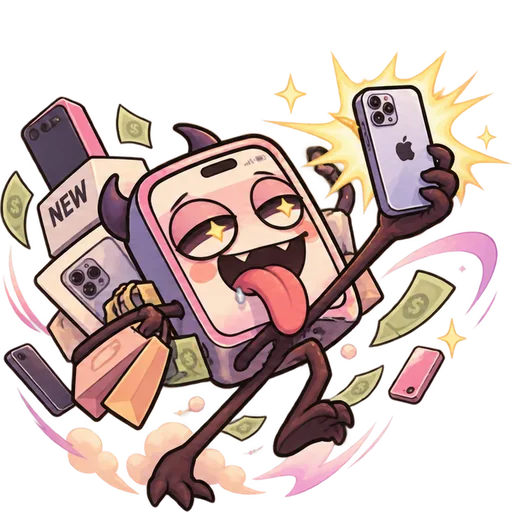
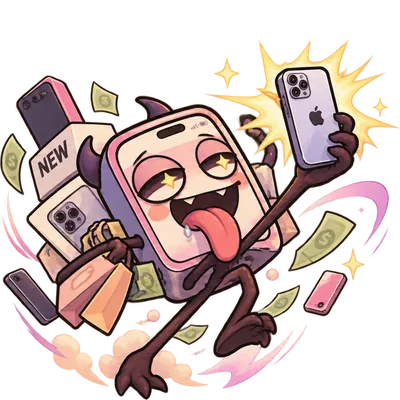
Monster sprites at 400px to keep the page light
Claude-Session: https://claude.ai/code/session_01FZDKRG3vx7xBazad2Bx9cK

diff --git a/scripts/split-sprite.py b/scripts/split-sprite.py
@@ -42,5 +42,5 @@ for k, pose in enumerate(['idle', 'attack', 'hurt']):
     piece = im.copy(); piece.putalpha(a)
     c = piece.crop(a.point(lambda v: 255 if v > 8 else 0).getbbox())
     s = max(c.size); sq = Image.new('RGBA', (s, s), (0, 0, 0, 0)); sq.paste(c, ((s - c.width) // 2, s - c.height))
-    sq.resize((512, 512), Image.LANCZOS).save(f'src/assets/monsters/{mid}-{pose}.webp', quality=82, method=6)
+    sq.resize((400, 400), Image.LANCZOS).save(f'src/assets/monsters/{mid}-{pose}.webp', quality=80, method=6)
     print(pose, c.size)
